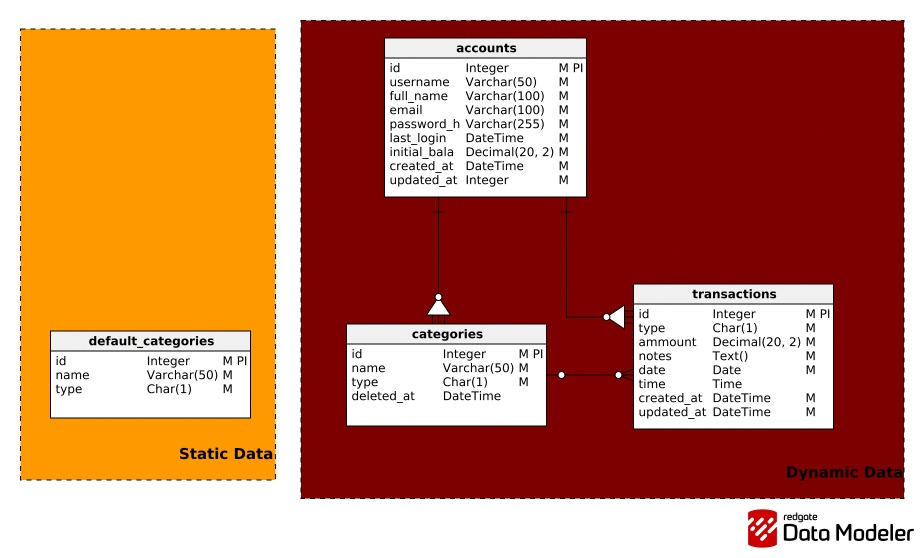
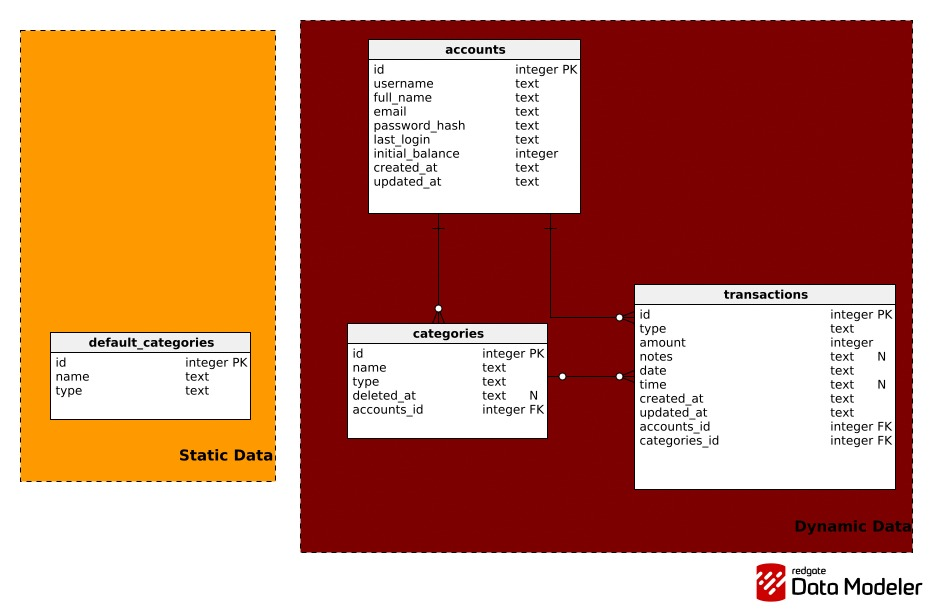
fix: enforce unique usernames and emails; correct data model files
- Add unique indexes ux_akun_username and ux_akun_email on accounts. Login
  looks accounts up by either, but only app validation kept them unique.
  Mirrored in docs/SpendingTracker_PDM_create.sql and the README; tested.
- docs: the physical model was saved as CDM.jpeg; it is now PDM.jpeg.
  Replace the old conceptual model with the corrected one as CDM.png
  (updated_at DateTime, "amount" spelling).

Changed region(s): [[0.0, 0.0305, 1.0, 1.0]]

diff --git a/database/migrations/2026_10_27_220000_add_unique_login_indexes_to_accounts_table.php b/database/migrations/2026_10_27_220000_add_unique_login_indexes_to_accounts_table.php
@@ -1,0 +1,24 @@
+<?php
+
+use Illuminate\Database\Migrations\Migration;
+use Illuminate\Support\Facades\DB;
+
+return new class extends Migration
+{
+    // Login looks accounts up by username or email, so the database must keep both unique.
+    public function up(): void
+    {
+        DB::unprepared(<<<'SQL'
+            CREATE UNIQUE INDEX ux_akun_username ON accounts (username);
+            CREATE UNIQUE INDEX ux_akun_email ON accounts (email);
+            SQL);
+    }
+
+    public function down(): void
+    {
+        DB::unprepared(<<<'SQL'
+            DROP INDEX IF EXISTS ux_akun_email;
+            DROP INDEX IF EXISTS ux_akun_username;
+            SQL);
+    }
+};

diff --git a/tests/Feature/IntegrityTest.php b/tests/Feature/IntegrityTest.php
@@ -299,3 +299,10 @@ test('the category list shows how many transactions each category has', function
             ->where('categories', fn ($categories) => collect($categories)->pluck('transactions_count', 'name')->all()
                 === ['Food' => 3, 'Unused' => 0]));
 });
+
+test('the database keeps usernames and emails unique', function (string $column) {
+    $account = Account::factory()->create();
+
+    expect(fn () => Account::factory()->create([$column => $account->{$column}]))
+        ->toThrow(QueryException::class);
+})->with(['username', 'email']);

diff --git a/README.md b/README.md
@@ -59,7 +59,7 @@ Income is always shown in green with a `+` sign and expense in red with a `−` 
 
 The conceptual and physical data models are in [`docs/`](docs):
 
-- Conceptual data model: [`docs/CDM.jpeg`](docs/CDM.jpeg)
+- Conceptual data model: [`docs/CDM.png`](docs/CDM.png)
 - Physical data model: [`docs/PDM.jpeg`](docs/PDM.jpeg)
 - Generated DDL: [`docs/SpendingTracker_PDM_create.sql`](docs/SpendingTracker_PDM_create.sql)
 
@@ -74,6 +74,7 @@ Integrity rules are enforced in the database itself, not only in the app:
 
 - **Foreign keys:** `categories.accounts_id → accounts.id` and `transactions.accounts_id → accounts.id`, both `ON DELETE CASCADE`. There is also a composite `transactions (categories_id, accounts_id) → categories (id, accounts_id)`, so a transaction can only use a category owned by the same account.
 - **Checks:** `amount > 0`, `type IN ('income', 'expense')`, valid dates and times, and non-blank names.
+- **Unique logins:** `accounts.username` and `accounts.email` each have a unique index.
 - **Unique active category** per account, name and type (a partial index on `deleted_at IS NULL`).
 - **Triggers:** a new account gets the default categories, and `transactions.updated_at` is maintained automatically.
 
